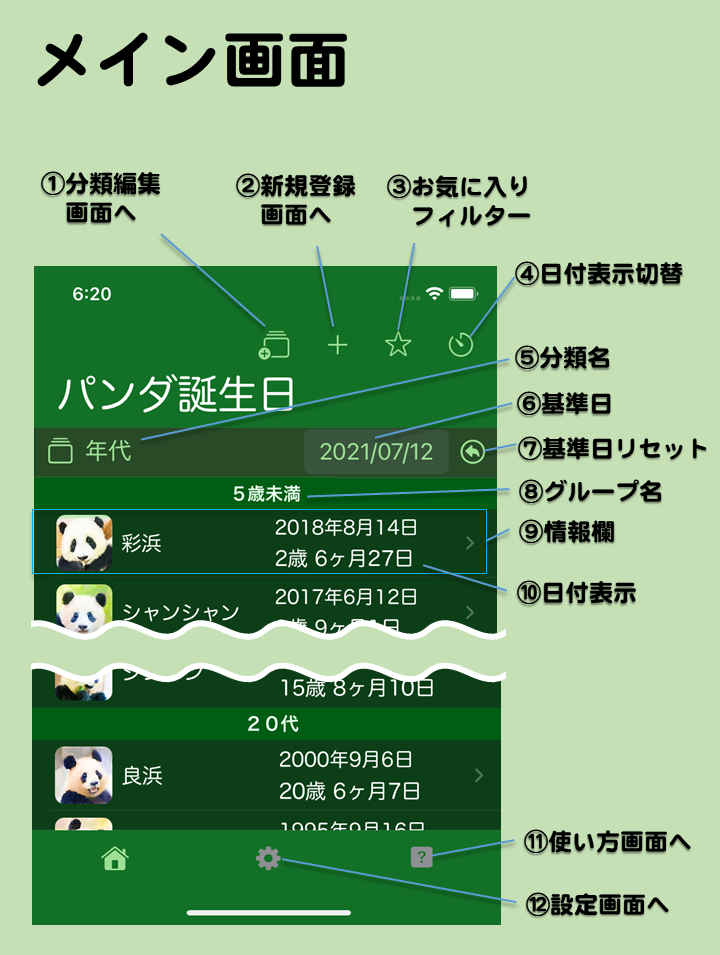
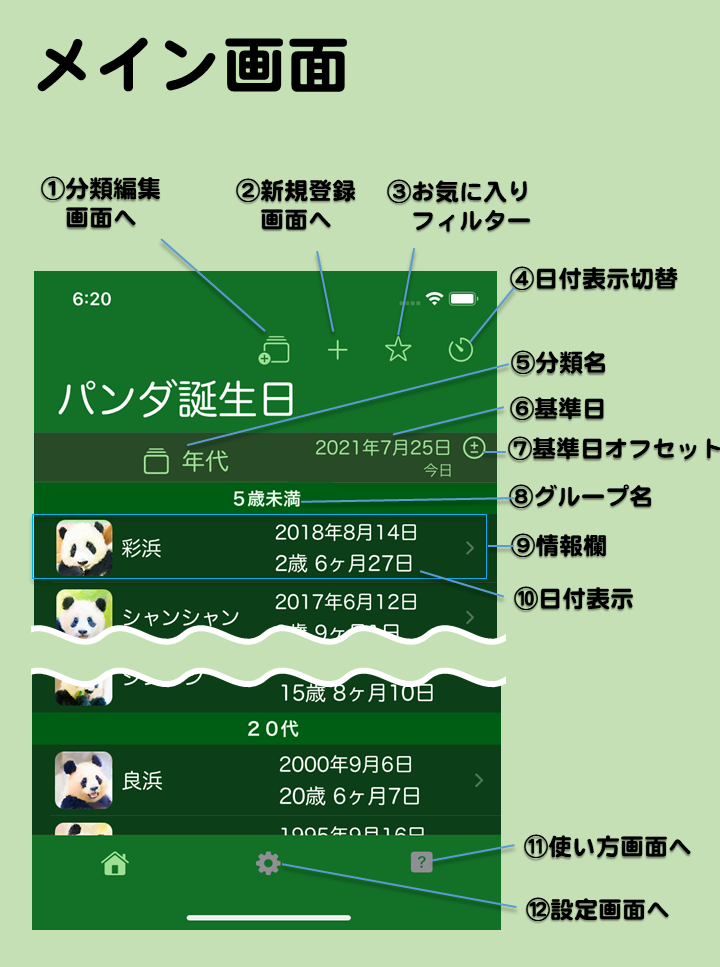
update help data

diff --git a/pandabirthday/v2_2/help_settingPage.html b/pandabirthday/v2_2/help_settingPage.html
@@ -51,35 +51,55 @@
       <dd></dd>
       <dt>①データ再読み込みボタン</dt>
       <dd>Appデータをネットから再読み込みします。画像やデータが正しく読み込みできてないように見える時に押してください。</dd>
-      <dt>②登録データ書き出しボタン</dt>
-      <dd>ユーザーが新規登録画面や編集画面で登録・編集したデータをファイルに書き出します。バックアップのために使えます。<br>iPhoneにプリインストールされているファイルAppでパンダ誕生日Appのフォルダを開き、他のiPadやiPhoneのパンダ誕生日App にコピーして読み込みさせることもできます。</dd>
-      <dt>③登録データ名入力欄</dt>
-      <dd>登録データ書き出しボタンを押す前に、ここをタップすると書き出すファイル名を変更できます。初期値は default です。<br>複数の名前が違うファイルに書き出した場合は右側に下矢印ボタンが表示され、過去に書き出したファイルを選ぶこともできます。ファイルAppで参照できるファイル名の初期値は pandaBirthdayUserData_default.txt で、名前を変えて保存したら default の部分が違うファイル名として保存されます。</dd>
-      <dt>④お気に入り書き出しボタン</dt>
-      <dd>ユーザーが詳細情報画面でセットしたお気に入りの情報をファイルに書き出します。バックアップのために使えます。<br>このファイルも登録データと同じようにiPhoneのファイルAppでコピーできます。</dd>
-      <dt>⑤お気に入り名入力欄</dt>
-      <dd>お気に入り書き出しボタンを押す前に、ここをタップすると書き出すファイル名を変更できます。初期値は default です。<br>複数の名前が違うファイルに書き出した場合は右側に下矢印ボタンが表示され、過去に書き出したファイルを選ぶこともできます。ファイル名は初期値は pandaBirthdayFavorites_default.txt で、名前を変えて保存したら default の部分が違うファイル名として保存されます。</dd>
-      <dt>⑥登録データ読み込みボタン</dt>
-      <dd>②で書き出したユーザー登録データのファイルを読み込みます。</dd>
-      <dt>⑦登録データ名</dt>
-      <dd>登録データ読み込みボタンを押す前に、読み込むファイルの名前を表示します。<br>２個以上のファイルがあった場合は右側に下矢印ボタンが表示され、どのファイルを読み込むか選択できます。</dd>
-      <dt>⑧お気に入り読み込みボタン</dt>
-      <dd>④で書き出したお気に入りデータのファイルを読み込みます。<br>お気に入りデータは④の登録データの読み込みの後に読み込まないと、登録データのお気に入りが反映されないので注意してください。</dd>
-      <dt>⑨お気に入り名</dt>
-      <dd>お気に入り読み込みボタンを押す前に、読み込むファイルの名前を表示します。<br>２個以上のファイルがあった場合は右側に下矢印ボタンが表示され、どのファイルを読み込むか選択できます。</dd>
-      <dt>⑩登録データ削除ボタン</dt>
-      <dd>ユーザー登録データのファイルを削除します。</dd>
-      <dt>11.登録データ名</dt>
-      <dd>登録データ削除ボタンを押す前に、削除するファイルの名前を表示します。<br>２個以上のファイルがあった場合は右側に下矢印ボタンが表示され、どのファイルを削除するか選択できます。</dd>
-      <dt>12.お気に入り削除ボタン</dt>
-      <dd>お気に入りデータのファイルを削除します。</dd>
-      <dt>13.お気に入り名</dt>
-      <dd>お気に入り削除ボタンを押す前に、削除するファイルの名前を表示します。<br>２個以上のファイルがあった場合は右側に下矢印ボタンが表示され、どのファイルを削除するか選択できます。</dd>
-      <dt>14.登録データリセットボタン</dt>
-      <dd>現在Appに登録されているユーザーデータをリセットします。②で書き出したファイルは消えません。</dd>
-      <dt>15.お気に入りリセットボタン</dt>
-      <dd>現在のお気に入りをリセットします。④で書き出したファイルは消えません。</dd>
-      <dt>16.バージョン表示</dt>
+      <dt>②ファイル操作選択</dt>
+      <dd>ユーザーが登録したデータや設定したお気に入りのファイルの操作を選択します。<br>
+      保存、共有、読込、変更、削除のいずれかを選ぶと、下の表示やボタンがその選択肢に応じて変わります。<br>
+      <ul>
+        <li>保存...登録データやお気に入りをファイルに保存します。
+        <li>共有...保存したファイルを他のAppと共有します。
+        <li>読込...保存したファイルを読み込みます。
+        <li>変更...保存したファイルの名前を変更します。
+        <li>削除...保存したファイルを削除します。
+      </ul>
+      </dd>
+      <dt>③登録データ操作ボタン</dt>
+      <dd>ユーザーが新規登録画面や編集画面で登録・編集した登録データのファイルに対する操作を実行します。<br>
+            <p>
+      まず⑤で操作対象のファイル名を入力したり選んだりした後にこのボタンを押します。<br>
+      <dt>④登録データ操作オプションスイッチ</dt>
+      <dd>登録データの操作時のオプション動作を指定します。
+      保存時はお気に入り設定したデータのみを保存するかどうかを選べ、読み込み時は読み込んだデータを自動的にお気に入りにするかどうかを選べます。</dd>
+      <dt>⑤登録データ名</dt>
+      <dd>操作対象の登録データのファイル名を表示します。<br>
+      保存の時はタップすると保存するファイル名を入力できます。初期値は default です。<br>
+      <p>
+      複数のファイルに保存した場合は右側に下矢印ボタンが表示され、複数のファイル名の中から選ぶこともできます。<br>
+      <p>
+      変更の時はすでに保存されたファイル名を選んだ後にタップして新しいファイル名を入力します。
+      <p>
+      共有の時のファイル名は pandaBirthdayUserData_default.txt（defaultの部分は入力した名前） です。Appleのメモ帳などに共有してファイル保存すると、そのAppでそのファイルを共有でこのAppに読み込ませることもできます。</dd>
+      <dt>⑥お気に入り操作ボタン</dt>
+      <dd>ユーザーが詳細情報画面で設定したお気に入り情報のファイルに対する操作を実行します。<br>
+      <p>
+      まず⑦で操作対象のファイル名を入力したり選んだりした後にこのボタンを押します。<br>
+      <dt>⑦お気に入り名</dt>
+      <dd>操作対象のお気に入りのファイル名を表示します。<br>
+      <p>
+      保存の時はタップすると保存するファイル名を入力できます。初期値は default です。<br>
+      <p>
+      複数のファイルに保存した場合は右側に下矢印ボタンが表示され、複数のファイル名の中から選ぶこともできます。<br>
+      <p>
+      変更の時はすでに保存されたファイル名を選んだ後にタップして新しいファイル名を入力します。
+     <p>
+      共有の時のファイル名は pandaBirthdayFavorites_default.txt（defaultの部分は入力した名前） です。Appleのメモ帳などに共有してファイル保存すると、そのAppでそのファイルを共有でこのAppに読み込ませることもできます。<br>
+      <p>
+      共有の時にはこの後に「共有データ取り込み」というボタンが表示されます。これは、他のAppからファイルを共有されて起動された場合にその場でファイルを取り込まなかった時に、後から取り込むときに使います。
+      </dd>
+      <dt>⑧登録データリセットボタン</dt>
+      <dd>現在Appに登録されているユーザーデータをリセットします。保存したファイルは消えません。</dd>
+      <dt>⑨お気に入りリセットボタン</dt>
+      <dd>現在Appに設定されているお気に入りをリセットします。保存したファイルは消えません。</dd>
+      <dt>⑩バージョン表示</dt>
       <dd>今使っているAppのバージョン番号を表示します。AppStore にある最新のバージョンと同じか確認できます。</dd>
     </dl>
   </body>

diff --git a/pandabirthday/v2_2/help_mainPage.html b/pandabirthday/v2_2/help_mainPage.html
@@ -60,19 +60,57 @@
       <dt>⑤分類名</dt>
       <dd>現在表示している分類の種類を示します。タップすると次の分類に表示を切り替えます。長押しすると先頭の分類に表示を切り換えます。表示したい分類の選択・並び替えは分類編集画面で行えます。</dd>
       <dt>⑥基準日</dt>
-      <dd>年齢計算の基準日を表示します。初期値は今日です。<br>タップするとカレンダー表示で任意の日を選ぶことができます。それに応じて各情報欄の年齢などを再計算して表示します。例えば任意の日にどのパンダが何歳だったとか、生まれる何年前だったかとかがわかります。</dd>
-      <dt>⑦基準日リセットボタン</dt>
-      <dd>タップすると基準日を今日に戻します。</dd>
+      <dd>年齢計算の基準日を表示します。日付の下には基準日が何を表示しているかラベルを表示します。初期値は今日です。<br>タップすると基準日入力（後述）が表示されます。その入力に応じて各情報欄の年齢などを再計算して表示します。例えば任意の日にどのパンダが何歳だったとか、生まれる何年前だったかとかがわかります。</dd>
+      <dt>⑦基準日オフセットボタン</dt>
+      <dd>タップすると基準日オフセット入力（後述）が表示されます。その入力に応じて基準日にオフセット（差分）を設定できます。</dd>
       <dt>⑧グループ名</dt>
       <dd>現在の分類に応じた情報欄のグループ名です。グループ名の後にそのグループに所属する複数の情報欄がまとまって表示されます。</dd>
       <dt>⑨情報欄</dt>
       <dd>パンダ情報もしくは利用者が登録した情報の抜粋表示です。アイコン、名前、日付を表示します。iPadなどの画面が広い機種では場所も表示します。情報欄をタップすると詳細情報画面に移動します。</dd>
       <dt>⑩日付表示</dt>
       <dd>情報毎の日付を表示します。分類が帰国期日ならば帰国期日とそれまでの日数を示し、誕生月なら誕生月日と次の誕生日までの日にち、人間換算年代なら誕生日と人間年齢に換算した年齢、それ以外なら誕生日と経過日数を示します。日付表示切り替えアイコンをタップする度に表示方法が変わります。</dd>
-      <dt>11.使い方画面へ</dt>
+      <dt>⑪.使い方画面へ</dt>
       <dd>タップすると現在表示していた画面に合わせた使い方を表示します。</dd>
-      <dt>12.設定画面へ</dt>
+      <dt>⑫.設定画面へ</dt>
       <dd>タップすると設定画面に移動します。</dd>
     </dl>
+    <p>
+    <h1>基準日入力</h1>
+        <img src="help_mainpage-2.png" alt="basedate input image" title="main page ">
+    <dl>
+      <dt>基準日入力</dt>
+      <dd>基準日をタップすると画面の下に表示され、基準日を自由に入力できます。</dd>
+      <dd><br></dd>
+      <dt>画面の説明</dt>
+      <dd></dd>
+      <dt>①キャンセルボタン</dt>
+      <dd>タップすると基準日入力を中断します。</dd>
+      <dt>②今日ボタン</dt>
+      <dd>タップすると基準日を今日に戻します。 </dd>
+      <dt>③完了ボタン</dt>
+      <dd>タップすると入力した日付で基準日を設定します。</dd>
+      <dt>④日付選択</dt>
+      <dd>年、月、日をそれぞれ上下にフリックして日付を入力します。</dd>
+    <p>
+    <h1>基準日オフセット入力</h1>
+        <img src="help_mainpage-3.png" alt="basedate input image" title="main page ">
+    <dl>
+      <dt>基準日オフセット入力</dt>
+      <dd>基準日オフセットボタンをタップすると画面の下に表示され、基準日のオフセット（差分）を入力できます。</dd>
+      <dd><br></dd>
+      <dt>画面の説明</dt>
+      <dd></dd>
+      <dt>①キャンセルボタン</dt>
+      <dd>タップするとオフセット入力を中断します。</dd>
+      <dt>②リセットボタン</dt>
+      <dd>タップするとオフセットを０に戻します。 </dd>
+      <dt>③完了ボタン</dt>
+      <dd>タップすると入力したオフセットを基準日に加算します。</dd>
+      <dt>④＋ー選択</dt>
+      <dd>オフセットの正負を選択します。</dd>
+      <dt>⑤数値選択</dt>
+      <dd>オフセットの数値を選択します。</dd>
+      <dt>⑥単位選択</dt>
+      <dd>オフセットの単位（年・月・週・日）を選択します。</dd>
   </body>
 </html>

diff --git a/pandabirthday/v2_2/help_detailPage.html b/pandabirthday/v2_2/help_detailPage.html
@@ -54,9 +54,9 @@
       <dt>②日付表示切替</dt>
       <dd>このページの誕生日や来日日、帰国期日の表示形式を切り替えます。</dd>
       <dt>③基準日</dt>
-      <dd>年齢計算の基準日を表示します。初期値は今日です。タップするとカレンダー表示で任意の日を選ぶことができます。</dd>
-      <dt>④基準日リセットボタン</dt>
-      <dd>押すと基準日を今日に戻します。</dd>
+      <dd>年齢計算の基準日を表示します。初期値は今日です。タップすると任意の日を入力することができます。</dd>
+      <dt>④基準日オフセットボタン</dt>
+      <dd>タップすると基準日のオフセット（差分）を入力できます。</dd>
       <dt>⑤お気に入りボタン</dt>
       <dd>押すとこのパンダ情報をお気に入りとします。もう一度押すとお気に入りを解除します。</dd>
       <dt>⑥誕生日</dt>
@@ -69,12 +69,12 @@
       <dd>生まれた場所、今いる動物園を示します。イベントの場合はイベントの場所を表示します。<br>パンダの情報ならタップするとそれぞれの場所の情報があるサイトをブラウザで開きます。</dd>
       <dt>⑩帰国期日</dt>
       <dd>帰国期日が決まっている場合にそれを表示します。中国から来日したパンダは来日日も表示します。<br>タップするとそれぞれ基準日に設定できます。それによって帰国する時には何歳になっているかとか、来日した時は何歳だったかとかがわかります。</dd>
-      <dt>11.関連情報</dt>
+      <dt>⑪.関連情報</dt>
       <dd>このパンダに関連する情報サイトへのリンクです。タップするとそれぞれのサイトをブラウザで開きます。</dd>
       
-      <dt>12.削除ボタン</dt>
+      <dt>⑫.削除ボタン</dt>
       <dd>タップすると該当の情報を削除できます。ユーザー登録情報にのみ表示されます。</dd>
-      <dt>13.編集画面へ</dt>
+      <dt>⑬.編集画面へ</dt>
       <dd>タップすると編集画面に移動します。ユーザー登録情報にのみ表示されます。</dd>
     </dl>
   </body>
